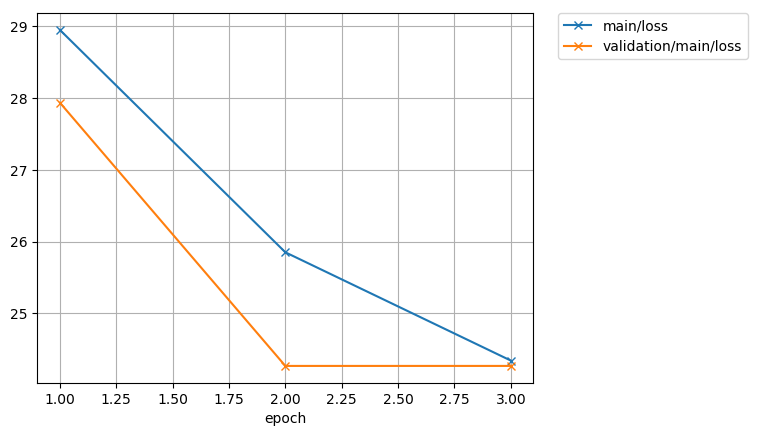
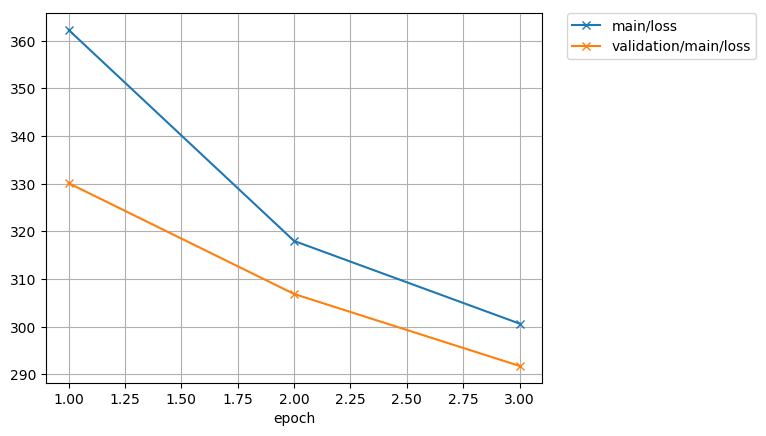
change unit 1000->100

diff --git a/train.py b/train.py
@@ -30,7 +30,7 @@ class Mymodel(chainer.Chain):
         y = self.predict(x)
         loss = F.sum((y-t) * (y-t)) / len(x)
         chainer.reporter.report({'loss': loss}, self)
-        #chainer.reporter.report({'accuracy': F.evaluation.accuracy.accuracy(y, t)}, self)
+        chainer.reporter.report({'accuracy': F.evaluation.accuracy.accuracy(y, t)}, self)
         return loss
         
     def predict(self, x):
@@ -56,13 +56,11 @@ def main():
     parser = argparse.ArgumentParser(description='Chainer CIFAR example:')
     parser.add_argument('--batchsize', '-b', type=int, default=64,
                         help='Number of images in each mini-batch')
-    parser.add_argument('--learnrate', '-l', type=float, default=0.2,
-                        help='Learning rate for SGD')
     parser.add_argument('--epoch', '-e', type=int, default=3,
                         help='Number of sweeps over the dataset to train')
     parser.add_argument('--out', '-o', default='result',
                         help='Directory to output the result')
-    parser.add_argument('--resume', '-r', default='resume.npz',
+    parser.add_argument('--resume', '-r', default='',  # resume.npz
                         help='Resume the training from snapshot')
     parser.add_argument('--early-stopping', type=str,
                         help='Metric to watch for early stopping')
@@ -70,7 +68,7 @@ def main():
                         help='Frequency of taking a snapshot')
     parser.add_argument('--gpu', '-g', type=int, default=-1,
                         help='GPU ID (negative value indicates CPU)')
-    parser.add_argument('--unit', '-u', type=int, default=1000,
+    parser.add_argument('--unit', '-u', type=int, default=100,
                         help='Number of units')
     parser.add_argument('--noplot', dest='plot', action='store_false',
                         help='Disable PlotReport extension'),
@@ -78,17 +76,16 @@ def main():
     parser.add_argument('--label_variety', type=int, default=1000)
     args = parser.parse_args()
 
-    dataset1 = TransformDataset(range(args.label_variety), Transform(args))
 
     model = Mymodel(args.unit, args.label_variety)
-
 
     # Setup an optimizer
     optimizer = chainer.optimizers.Adam()
     optimizer.setup(model)
 
     # Load the dataset
-    train, test = chainer.datasets.split_dataset_random(dataset1, int(1000 * 0.8), seed=0)
+    dataset = TransformDataset(range(args.label_variety), Transform(args))
+    train, test = chainer.datasets.split_dataset_random(dataset, int(args.label_variety * 0.8), seed=0)
 
     train_iter = chainer.iterators.SerialIterator(train, args.batchsize)
     test_iter = chainer.iterators.SerialIterator(test, args.batchsize,
